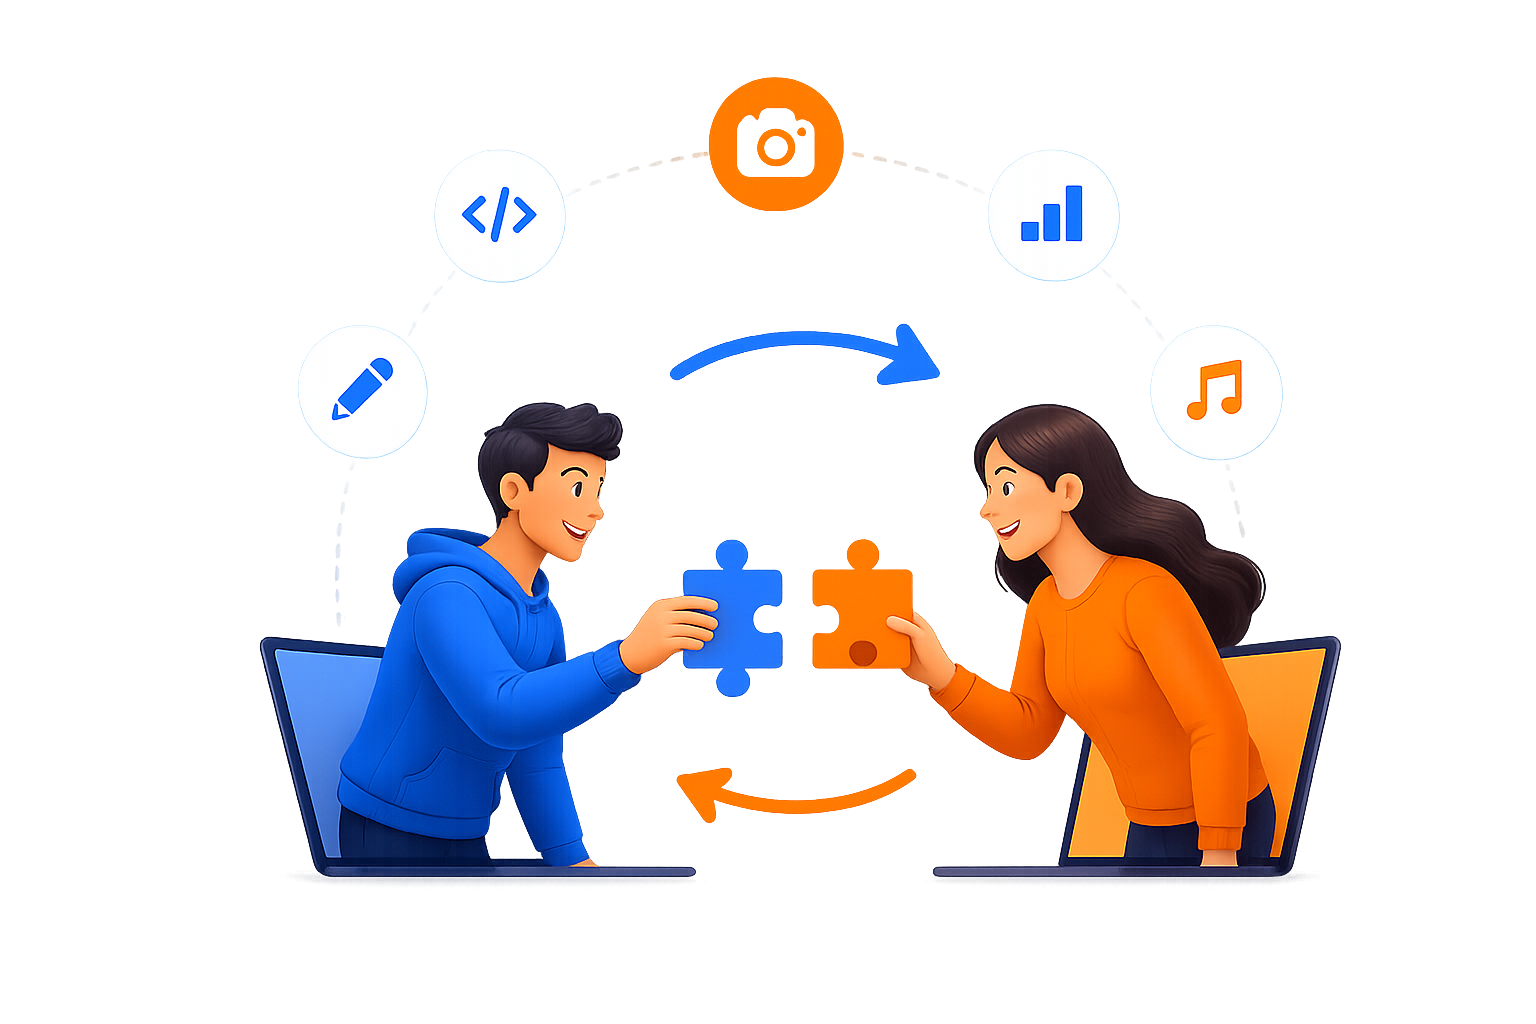
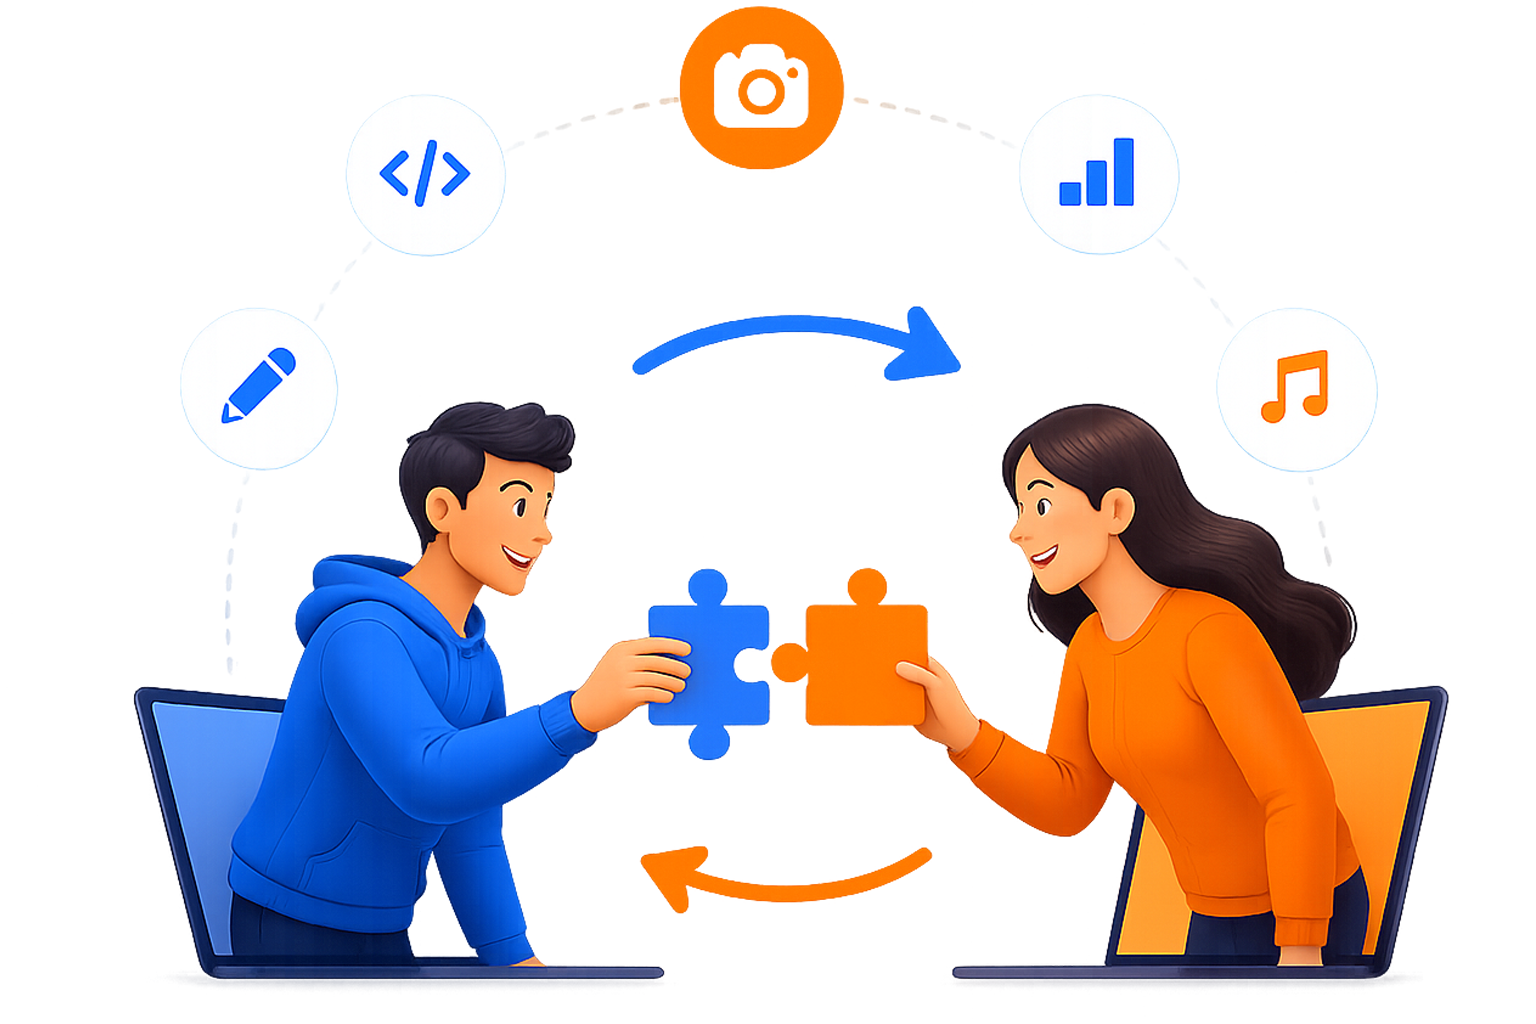
MatchComponent.jsx

diff --git a/src/components/MatchComponent.jsx b/src/components/MatchComponent.jsx
@@ -1,0 +1,157 @@
+import { useEffect, useState } from "react";
+import { Alert, Col, Container, Row, Spinner } from "react-bootstrap";
+import UserCard from "./UserCard";
+
+const API_BASE = import.meta.env.VITE_API_URL || "http://localhost:3001";
+
+function MatchComponent() {
+    const [status, setStatus] = useState("loading"); // loading | success | error
+    const [error, setError] = useState("");
+    const [matches, setMatches] = useState([]);
+
+    const token = localStorage.getItem("token");
+
+    const fetchJson = (url, headers) => {
+        return fetch(url, { headers }).then((res) => {
+            if (!res.ok) throw new Error(`Errore API ${res.status} su ${url}`);
+            return res.json();
+        });
+    };
+
+    const categoriesSet = (skills) => {
+        const safeSkills = skills || [];
+        return new Set(safeSkills.map((s) => s.category).filter(Boolean));
+    };
+
+    const intersection = (setA, setB) => {
+        const out = [];
+        setA.forEach((v) => {
+            if (setB.has(v)) out.push(v);
+        });
+        return out;
+    };
+
+    useEffect(() => {
+        if (!token) return;
+
+        const headers = {
+            "Content-Type": "application/json",
+            Authorization: `Bearer ${token}`,
+        };
+
+        let meData;
+        let myOwned = [];
+        let myWanted = [];
+
+        fetchJson(`${API_BASE}/users/me`, headers)
+            .then((me) => {
+                meData = me;
+                return Promise.all([
+                    fetchJson(`${API_BASE}/skills/me?type=OWNED`, headers),
+                    fetchJson(`${API_BASE}/skills/me?type=WANTED`, headers),
+                ]);
+            })
+            .then(([owned, wanted]) => {
+                myOwned = owned || [];
+                myWanted = wanted || [];
+                return fetchJson(`${API_BASE}/users?page=0&size=100&sortBy=username`, headers);
+            })
+            .then((usersPage) => {
+                const users = (usersPage && usersPage.content) || [];
+                const otherUsers = users.filter((u) => u.id !== meData.id);
+
+                const cardsPromises = otherUsers.map((u) =>
+                    Promise.all([
+                        fetchJson(`${API_BASE}/skills/user/${u.id}?type=OWNED`, headers),
+                        fetchJson(`${API_BASE}/skills/user/${u.id}?type=WANTED`, headers),
+                    ]).then(([uOwned, uWanted]) => {
+                        const myOwnedCats = categoriesSet(myOwned);
+                        const myWantedCats = categoriesSet(myWanted);
+                        const uOwnedCats = categoriesSet(uOwned);
+                        const uWantedCats = categoriesSet(uWanted);
+
+                        const iCanHelp = intersection(myOwnedCats, uWantedCats);
+                        const canHelpMe = intersection(uOwnedCats, myWantedCats);
+
+                        return {
+                            user: u,
+                            isReciprocalMatch: iCanHelp.length > 0 && canHelpMe.length > 0,
+                            iCanHelp,
+                            canHelpMe,
+                            ownedSkills: uOwned || [],
+                            wantedSkills: uWanted || [],
+                        };
+                    })
+                );
+
+                return Promise.all(cardsPromises);
+            })
+            .then((cards) => {
+                const onlyMatches = cards
+                    .filter((c) => c.isReciprocalMatch)
+                    .sort((a, b) => (b.iCanHelp.length + b.canHelpMe.length) - (a.iCanHelp.length + a.canHelpMe.length));
+
+                setMatches(onlyMatches);
+                setStatus("success");
+            })
+            .catch((err) => {
+                setError(err.message || "Errore durante il caricamento dei match.");
+                setStatus("error");
+            });
+    }, [token]);
+
+    if (!token) {
+        return (
+            <Container className="py-4">
+                <Alert variant="warning" className="mb-0">
+                    Token mancante. Effettua il login.
+                </Alert>
+            </Container>
+        );
+    }
+
+    if (status === "loading") {
+        return (
+            <Container className="py-5 text-center">
+                <Spinner animation="border" />
+                <p className="mt-3 mb-0">Cerco i match migliori per te...</p>
+            </Container>
+        );
+    }
+
+    if (status === "error") {
+        return (
+            <Container className="py-4">
+                <Alert variant="danger">{error}</Alert>
+            </Container>
+        );
+    }
+
+    return (
+        <Container className="py-4">
+            <h2 className="mb-3">I tuoi Match</h2>
+
+            {matches.length === 0 ? (
+                <Alert variant="info" className="mb-0">
+                    Nessun match reciproco trovato al momento.
+                </Alert>
+            ) : (
+                <Row className="g-4">
+                    {matches.map((m) => (
+                        <Col key={m.user.id} xs={12} md={6} xl={4}>
+                            <UserCard
+                                user={m.user}
+                                iCanHelp={m.iCanHelp}
+                                canHelpMe={m.canHelpMe}
+                                ownedSkills={m.ownedSkills}
+                                wantedSkills={m.wantedSkills}
+                            />
+                        </Col>
+                    ))}
+                </Row>
+            )}
+        </Container>
+    );
+}
+
+export default MatchComponent;

diff --git a/src/components/UserCard.jsx b/src/components/UserCard.jsx
@@ -1,0 +1,76 @@
+import { Badge, Button, Card } from "react-bootstrap";
+
+function UserCard({ user, iCanHelp, canHelpMe, ownedSkills, wantedSkills }) {
+    const fullName = `${user.name || ""} ${user.surname || ""}`.trim();
+
+    return (
+        <Card className="h-100 shadow-sm">
+            <Card.Body className="d-flex flex-column">
+                <div className="d-flex align-items-center gap-3 mb-3">
+                    <img
+                        src={user.avatarUrl || "https://placehold.co/64x64?text=U"}
+                        alt={user.username}
+                        width={56}
+                        height={56}
+                        style={{ borderRadius: "50%", objectFit: "cover" }}
+                    />
+                    <div>
+                        <h5 className="mb-0">{fullName || user.username}</h5>
+                        <small className="text-muted">@{user.username}</small>
+                    </div>
+                </div>
+
+                <div className="mb-2">
+                    <small className="text-muted d-block mb-1">Tu puoi aiutarlo in:</small>
+                    {iCanHelp.map((c) => (
+                        <Badge bg="primary" className="me-1 mb-1" key={`help-${user.id}-${c}`}>
+                            {c}
+                        </Badge>
+                    ))}
+                </div>
+
+                <div className="mb-3">
+                    <small className="text-muted d-block mb-1">Lui può aiutarti in:</small>
+                    {canHelpMe.map((c) => (
+                        <Badge bg="success" className="me-1 mb-1" key={`get-${user.id}-${c}`}>
+                            {c}
+                        </Badge>
+                    ))}
+                </div>
+
+                <details className="mb-3">
+                    <summary>Vedi skill</summary>
+                    <div className="mt-2">
+                        <small className="fw-bold d-block">Offre:</small>
+                        <ul className="mb-2">
+                            {ownedSkills.map((s) => (
+                                <li key={s.id}>
+                                    {s.title} ({s.category})
+                                </li>
+                            ))}
+                        </ul>
+
+                        <small className="fw-bold d-block">Cerca:</small>
+                        <ul className="mb-0">
+                            {wantedSkills.map((s) => (
+                                <li key={s.id}>
+                                    {s.title} ({s.category})
+                                </li>
+                            ))}
+                        </ul>
+                    </div>
+                </details>
+
+                <Button
+                    className="mt-auto"
+                    variant="outline-dark"
+                    href={`mailto:${user.email}?subject=SkillSwap%20-%20Proposta%20di%20scambio`}
+                >
+                    Contatta via email
+                </Button>
+            </Card.Body>
+        </Card>
+    );
+}
+
+export default UserCard;

diff --git a/src/App.jsx b/src/App.jsx
@@ -7,6 +7,7 @@ import Login from './components/Login';
 import Profile from './components/Profile';
 import Register from './components/Register';
 import PrivateLayout from './components/PrivateLayout';
+import MatchComponent from './components/MatchComponent';
 
 function App() {
   return (
@@ -22,6 +23,7 @@ function App() {
           {/* <Route path="/search" element={<Search />} />
           <Route path="/chat" element={<Chat />} /> */}
           <Route path="/profile" element={<Profile />} />
+          <Route path="/match" element={<MatchComponent />} />
         </Route>
       </Routes>
 

diff --git a/src/components/SideBar.jsx b/src/components/SideBar.jsx
@@ -32,7 +32,7 @@ function SideBar() {
                         </>
                     )}
                 </NavLink>
-                <NavLink to="/chat" className="nav-item">
+                <NavLink to="/match" className="nav-item">
                     {({ isActive }) => (
                         <>
                             <i className={`bi ${isActive ? "bi-people-fill" : "bi-people"}`}></i>
